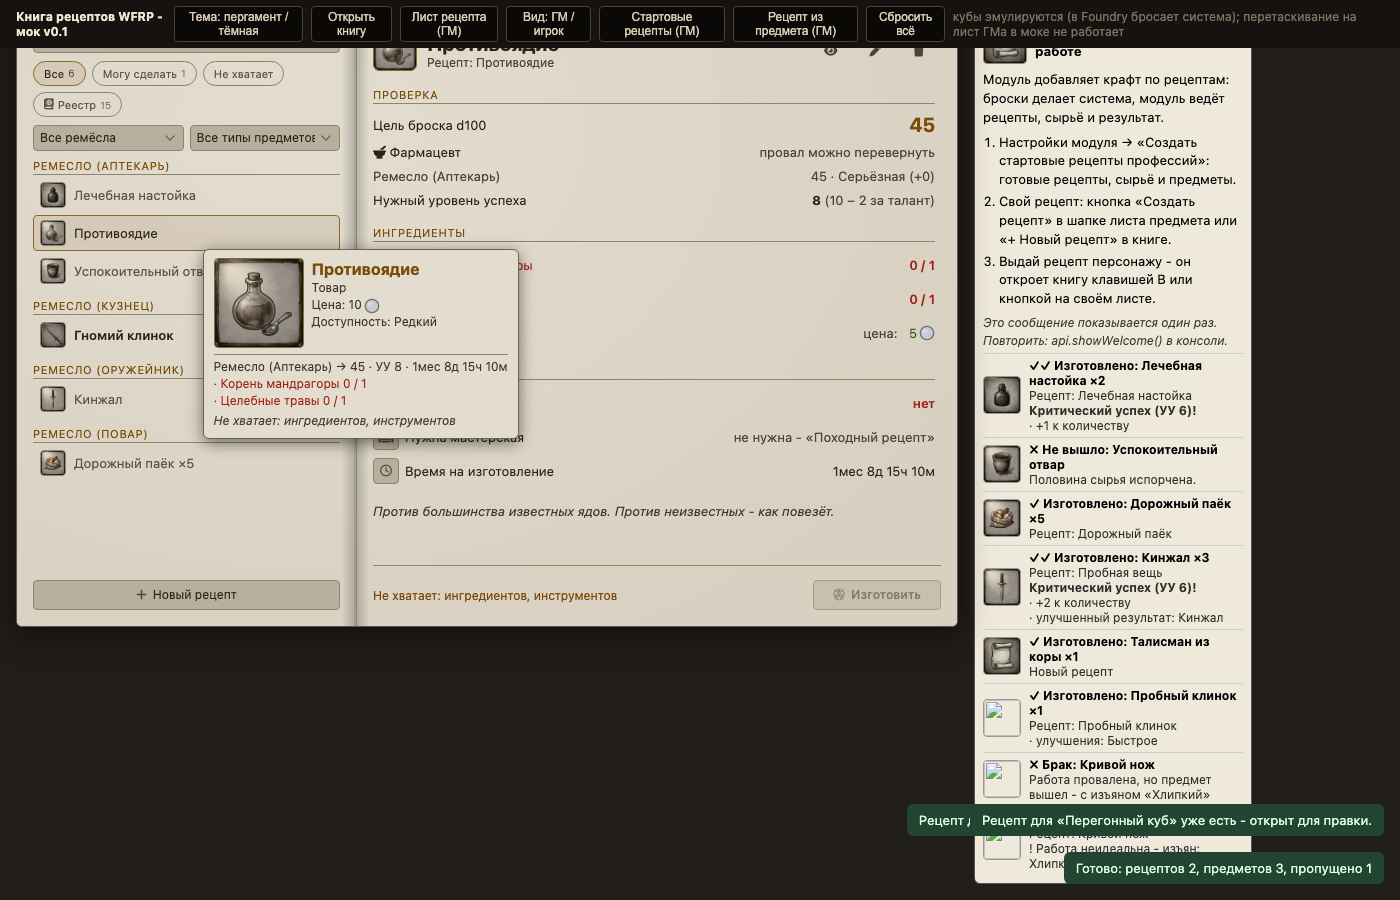
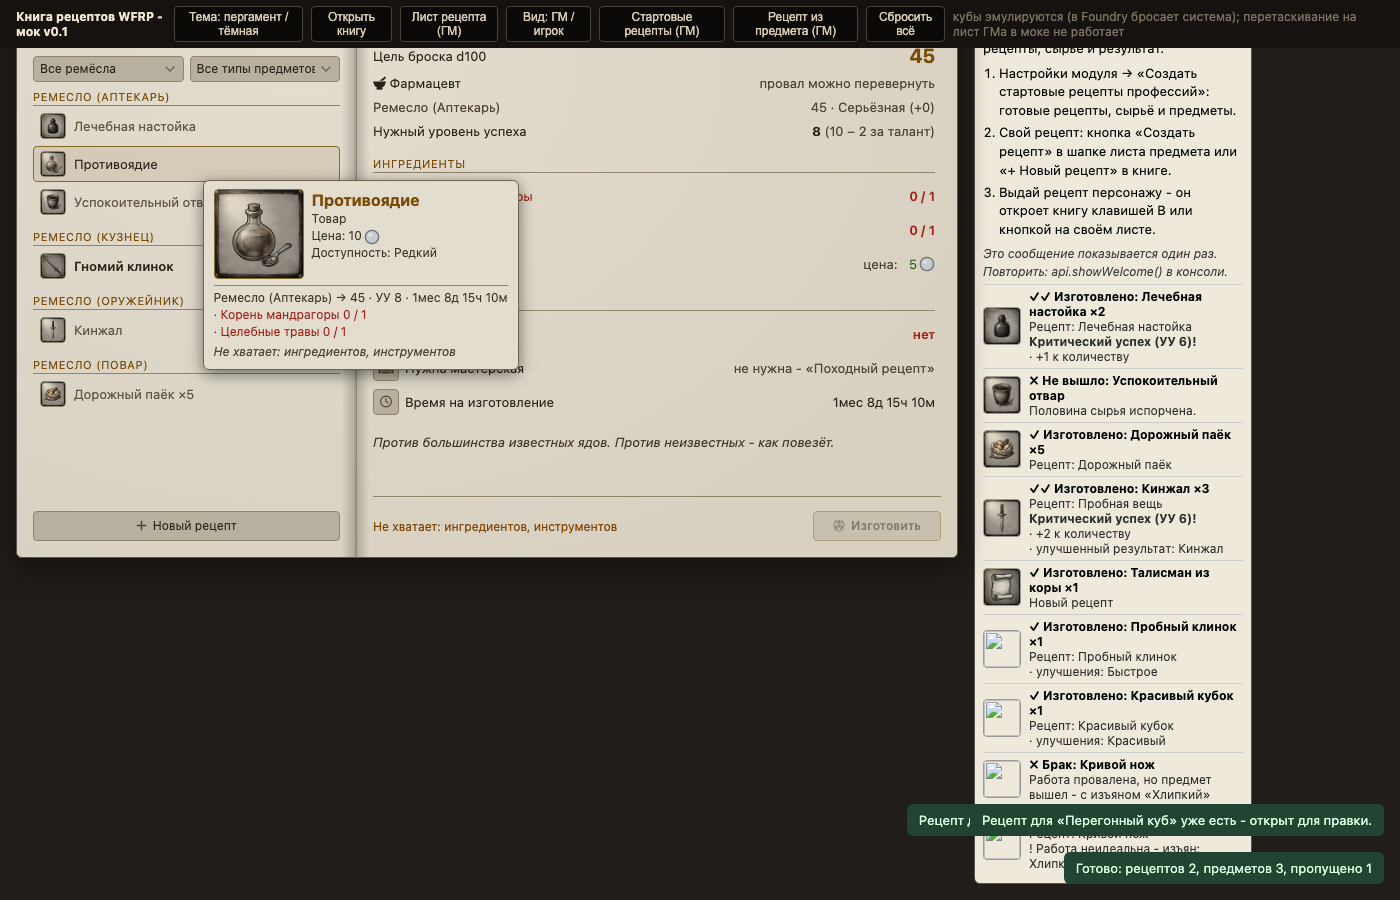
v0.1.36: уровни качества - каждый уровень считается отдельным достоинством

Changed region(s): [[0.0, 0.0311, 0.8907, 0.84], [0.5529, 0.0311, 0.6757, 0.3111]]

diff --git a/scripts/recipe-book.js b/scripts/recipe-book.js
@@ -294,12 +294,27 @@ export function isGMView() {
   return !!game.user.isGM && !game.settings.get(MODULE_ID, "playerView");
 }
 
+/** Качества с уровнями: каждый уровень считается ОТДЕЛЬНЫМ достоинством (стр. 291).
+    Остальные значения у свойств - параметры (многозарядное (4), перезарядка (5)), а не уровни. */
+export const MULTI_LEVEL = new Set(["durable", "fine"]);
+
+/** Выбор игрока: {качество: уровень}. Старый формат (массив ключей) читаем как уровень 1. */
+export function pickedLevels(picked) {
+  const out = new Map();
+  if (Array.isArray(picked)) for (const k of picked) out.set(k, 1);
+  else for (const [k, v] of Object.entries(picked ?? {})) if (Number(v) > 0) out.set(k, Number(v));
+  return out;
+}
+
 export function recipeStatus(actor, recipe, { picked = [], idx = null } = {}) {
   const sys = recipe.system ?? {};
   const inv = idx ?? actorIndex(actor);
-  // Выбранные улучшения добавляют своё сырьё, деньги и требуемый УУ
-  const ups = (sys.upgrades ?? []).filter((u) => picked.includes(u.quality));
-  const slBase = (Number(sys.slTarget) || 1) + ups.reduce((n, u) => n + (Number(u.slBonus) || 0), 0);
+  // Выбранные улучшения добавляют своё сырьё, деньги и требуемый УУ - всё это умножается на уровень
+  const lv = pickedLevels(picked);
+  const ups = (sys.upgrades ?? [])
+    .filter((u) => (lv.get(u.quality) ?? 0) > 0)
+    .map((u) => ({ ...u, level: Math.min(lv.get(u.quality), Math.max(1, Number(u.levels) || 1)) }));
+  const slBase = (Number(sys.slTarget) || 1) + ups.reduce((n, u) => n + (Number(u.slBonus) || 0) * u.level, 0);
   const skillItem = findSkill(actor, sys.skill, inv) ?? findSkill(actor, sys.skillAlt, inv);
   const skillUsed = skillItem ? skillItem.name : sys.skill;
   const skillTotal = skillItem ? Number(skillItem.system.total?.value) || 0 : 0;
@@ -311,9 +326,10 @@ export function recipeStatus(actor, recipe, { picked = [], idx = null } = {}) {
   const needed = [...(sys.ingredients ?? []).map((i) => ({ ...i }))];
   for (const u of ups) {
     for (const ing of u.ingredients ?? []) {
+      const count = (Number(ing.count) || 1) * u.level;
       const same = needed.find((n) => norm(n.name) === norm(ing.name));
-      if (same) same.count += ing.count;
-      else needed.push({ ...ing });
+      if (same) same.count += count;
+      else needed.push({ ...ing, count });
     }
   }
   const ingredients = needed.map((ing) => {
@@ -324,7 +340,7 @@ export function recipeStatus(actor, recipe, { picked = [], idx = null } = {}) {
     const { have } = stockOf(actor, t.name, inv);
     return { ...t, have, ok: have > 0 };
   });
-  const costBp = (sys.moneyBp || 0) + ups.reduce((n, u) => n + (Number(u.moneyBp) || 0), 0);
+  const costBp = (sys.moneyBp || 0) + ups.reduce((n, u) => n + (Number(u.moneyBp) || 0) * u.level, 0);
   const haveBp = moneyPennies(actor, inv);
   const moneyOk = haveBp >= costBp;
   const countMoney = game.settings.get(MODULE_ID, "highlightMoney");
@@ -413,7 +429,7 @@ export async function startCraft(actor, recipe, picked = []) {
         moneyBp: st.costBp,
         spent: spentLite,
         // Выбранные улучшения: качества добавятся предмету при успехе
-        upgrades: st.ups.map((u) => ({ quality: u.quality, name: u.name }))
+        upgrades: st.ups.map((u) => ({ quality: u.quality, name: u.name, level: u.level || 1 }))
       }
     }
   }]);
@@ -537,7 +553,8 @@ async function finishCraft(actor, test) {
   const obj = await resultObject(data, test.name, count);
   const ups = test.getFlag(MODULE_ID, "upgrades") ?? [];
   if (ups.length) {
-    pushProps(obj, "qualities", ups.map((u) => ({ name: u.quality, value: null })));
+    // Уровень пишем значением качества: «Красивый (3)» - это три достоинства по правилам
+    pushProps(obj, "qualities", ups.map((u) => ({ name: u.quality, value: (u.level || 1) > 1 ? u.level : null })));
     lines.push("· " + esc(F("WFRPRB.Chat.Upgraded", { list: ups.map((u) => u.name || propertyLabel(u.quality)).join(", ") })));
   }
   if (obj_critQualities) pushProps(obj, "qualities", obj_critQualities);
@@ -905,7 +922,7 @@ export class RecipeBookApp extends HandlebarsApplicationMixin(ApplicationV2) {
     this.filter = "all";
     this.search = "";
     this.selected = null; // {kind:"recipe"|"project", id}
-    this.picked = {};      // id рецепта -> массив выбранных улучшений (ключи качеств)
+    this.picked = {};      // id рецепта -> { ключ качества: выбранный уровень }
   }
 
   get title() {
@@ -1188,7 +1205,7 @@ export class RecipeBookApp extends HandlebarsApplicationMixin(ApplicationV2) {
           (this._seen ??= new Set()).add(r.id);
           r.unsetFlag(MODULE_ID, "isNew").catch(() => null);
         }
-        const picked = this.picked[r.id] ?? [];
+        const picked = this.picked[r.id] ?? {};
         const st = recipeStatus(statusActor, r, { picked, idx: idxFor(statusActor) });
         const res = r.system.result ?? {};
         const dd = Number(r.system.timeDays) || 0;
@@ -1207,18 +1224,26 @@ export class RecipeBookApp extends HandlebarsApplicationMixin(ApplicationV2) {
             tt: await this._itemTip(ing.name, ing.uuid, ing.img, statusActor)
           }))),
           moneyBp: st.costBp, moneyHtml: moneyHtml(st.costBp), moneyOk: st.moneyOk,
-          upgrades: (r.system.upgrades ?? []).map((u) => ({
+          upgrades: (r.system.upgrades ?? []).map((u) => {
+            const maxLevel = Math.max(1, Number(u.levels) || 1);
+            const level = Math.min(pickedLevels(picked).get(u.quality) ?? 0, maxLevel);
+            // Цена и сырьё показываются за выбранный уровень, а невыбранное - за один
+            const mul = level || 1;
+            return {
             quality: u.quality,
             name: u.name || propertyLabel(u.quality),
-            on: picked.includes(u.quality),
-            slBonus: u.slBonus,
+            on: level > 0,
+            level, maxLevel, multiLevel: maxLevel > 1,
+            slBonus: (Number(u.slBonus) || 0) * mul,
             costHtml: [
-              ...(u.ingredients ?? []).map((i) => `${esc(i.name)}${i.count > 1 ? ` ×${i.count}` : ""}`),
-              u.moneyBp ? moneyHtml(u.moneyBp) : ""
+              ...(u.ingredients ?? []).map((i) => `${esc(i.name)}${(i.count * mul) > 1 ? ` ×${i.count * mul}` : ""}`),
+              u.moneyBp ? moneyHtml(u.moneyBp * mul) : ""
             ].filter(Boolean).join(", "),
             // В подсказке - ЧТО ДАЁТ качество (цена и +УУ уже видны в самой строке)
-            tip: propertyTip(u.quality, u.name || propertyLabel(u.quality))
-          })),
+            tip: propertyTip(u.quality, u.name || propertyLabel(u.quality)) +
+              (maxLevel > 1 ? "\n" + F("WFRPRB.Upgrade.LevelTip", { max: maxLevel }) : "")
+            };
+          }),
           moneyTip: (() => {
             const cost = st.costBp;
             const left = st.haveBp - cost;
@@ -1315,6 +1340,12 @@ export class RecipeBookApp extends HandlebarsApplicationMixin(ApplicationV2) {
     RBTooltip.hide();
     RBTooltip.adoptTips();
     this._bindTooltips(root);
+    for (const el of root.querySelectorAll(".rb-upgrade-level")) {
+      el.addEventListener("change", (ev) => {
+        const t = ev.currentTarget;
+        this.setUpgradeLevel(t.dataset.quality, t.value, t.max);
+      });
+    }
     root.querySelector(".rb-skill-filter")?.addEventListener("change", (ev) => {
       this.skillFilter = ev.currentTarget.value;
       this.render();
@@ -1351,10 +1382,22 @@ export class RecipeBookApp extends HandlebarsApplicationMixin(ApplicationV2) {
     const id = this.selected?.id;
     if (!id) return;
     const key = target.dataset.quality;
-    const list = new Set(this.picked[id] ?? []);
-    if (list.has(key)) list.delete(key);
-    else list.add(key);
-    this.picked[id] = [...list];
+    const cur = { ...(this.picked[id] ?? {}) };
+    if (cur[key] > 0) delete cur[key];
+    else cur[key] = 1;
+    this.picked[id] = cur;
+    this.render();
+  }
+
+  /** Уровень улучшения: каждый уровень - отдельное достоинство (+5 УУ и своё сырьё) */
+  setUpgradeLevel(key, level, max) {
+    const id = this.selected?.id;
+    if (!id) return;
+    const cur = { ...(this.picked[id] ?? {}) };
+    const n = Math.max(0, Math.min(Number(level) || 0, Math.max(1, Number(max) || 1)));
+    if (n > 0) cur[key] = n;
+    else delete cur[key];
+    this.picked[id] = cur;
     this.render();
   }
 
@@ -1362,7 +1405,7 @@ export class RecipeBookApp extends HandlebarsApplicationMixin(ApplicationV2) {
     if (this.selected?.kind !== "recipe") return;
     const recipe = this.actor.items.get(this.selected.id);
     if (!recipe) return;
-    const test = await startCraft(this.actor, recipe, this.picked[recipe.id] ?? []);
+    const test = await startCraft(this.actor, recipe, this.picked[recipe.id] ?? {});
     // Если работа закончилась сразу, проекта уже нет - остаёмся на рецепте
     if (test?.id && this.actor.items.get(test.id)) this.selected = { kind: "project", id: test.id, recipeId: recipe.id };
     this.render();

diff --git a/scripts/item-forge.js b/scripts/item-forge.js
@@ -4,7 +4,7 @@
    за достоинства, крит-качества (И/ИЛИ) и правила брака. */
 
 import { MODULE_ID, difficultyLabel } from "./recipe-model.js";
-import { L, F, esc, openItemPicker, propertyLabel, propertyTip, coinIco, isDark, availLabel, RecipeBookApp } from "./recipe-book.js";
+import { L, F, esc, openItemPicker, propertyLabel, propertyTip, coinIco, isDark, availLabel, moneyHtml, COIN_VALUE, MULTI_LEVEL, RecipeBookApp } from "./recipe-book.js";
 import { AVAIL_TO_DIFF } from "./recipe-from-item.js";
 import { EFFECT_PRESETS, buildPotionEffects, donorEffects, effectSummary } from "./item-effects.js";
 
@@ -90,11 +90,18 @@ export class ItemForgeApp extends ForgeMixin(ForgeAppBase) {
     this.baseSL = Number(this.recipe.system.slTarget) || 1;
   }
 
+  /** Сколько достоинств даёт свойство: у «Прочного» и «Красивого» каждый уровень
+      считается отдельным достоинством (стр. 291), у остальных значение - параметр. */
+  static qualityWeight(key, state) {
+    return MULTI_LEVEL.has(key) ? Math.max(1, Number(state?.value) || 1) : 1;
+  }
+
   /** Требуемый УУ: изъяны половинят (каждый), затем +5 за достоинство.
       withUpgrades=false - без качеств, которые станут выбираемыми улучшениями. */
   computedSL({ withUpgrades = true } = {}) {
-    const qs = Object.values(this.forge.qualities).filter((x) => x.on);
-    const nq = withUpgrades ? qs.length : qs.filter((v) => !(v.extraName || Number(v.extraBp) > 0)).length;
+    const entries = Object.entries(this.forge.qualities).filter(([, x]) => x.on);
+    const counted = withUpgrades ? entries : entries.filter(([, v]) => !(v.extraName || Number(v.extraBp) > 0));
+    const nq = counted.reduce((n, [key, v]) => n + ItemForgeApp.qualityWeight(key, v), 0);
     const nf = Object.values(this.forge.flaws).filter((x) => x.on).length;
     let sl = this.baseSL;
     for (let i = 0; i < nf; i++) sl = sl / 2;
@@ -172,6 +179,23 @@ export class ItemForgeApp extends ForgeMixin(ForgeAppBase) {
       },
       baseSL: this.baseSL,
       prognosis: this.computedSL(),
+      // Правила качества предметов (стр. 291): каждое достоинство удваивает цену
+      // и снижает доступность на ступень, каждый изъян - наоборот
+      quality: (() => {
+        const nq = Object.entries(st.qualities).filter(([, x]) => x.on)
+          .reduce((n, [key, v]) => n + ItemForgeApp.qualityWeight(key, v), 0);
+        const nf = Object.values(st.flaws).filter((x) => x.on).length;
+        if (!nq && !nf) return null;
+        const bp = (Number(st.priceGc) || 0) * COIN_VALUE.gc + (Number(st.priceSs) || 0) * COIN_VALUE.ss + (Number(st.priceBp) || 0);
+        const shift = nq - nf;
+        const idx = Math.min(Math.max(AVAIL_KEYS.indexOf(st.avail) + shift, 0), AVAIL_KEYS.length - 1);
+        return {
+          nq, nf,
+          priceHtml: bp ? moneyHtml(Math.round(bp * Math.pow(2, shift))) : "",
+          avail: availLabel(AVAIL_KEYS[idx]),
+          same: shift === 0
+        };
+      })(),
       coinGc: coinIco("gc"), coinSs: coinIco("ss"), coinBp: coinIco("bp")
     };
   }
@@ -287,6 +311,8 @@ export class ItemForgeApp extends ForgeMixin(ForgeAppBase) {
       quality: key,
       name: propertyLabel(key),
       slBonus: 5,
+      // Уровень у «Прочного» и «Красивого» игрок выбирает сам, до заданного максимума
+      levels: MULTI_LEVEL.has(key) ? Math.max(1, Number(v.value) || 1) : 1,
       moneyBp: Number(v.extraBp) || 0,
       ingredients: v.extraName ? [{ uuid: v.extraUuid ?? "", name: v.extraName, img: v.extraImg ?? "", count: v.extraCount || 1 }] : []
     }));

diff --git a/scripts/recipe-model.js b/scripts/recipe-model.js
@@ -75,6 +75,8 @@ export function buildRecipeModel() {
         quality: new F.StringField({ initial: "" }),   // ключ качества системы
         name: new F.StringField({ initial: "" }),      // подпись для игрока
         slBonus: new F.NumberField({ initial: 5, min: 0, integer: true }),
+        // Сколько уровней качества игрок может взять (стр. 291: каждый уровень - отдельное достоинство)
+        levels: new F.NumberField({ initial: 1, min: 1, integer: true }),
         moneyBp: new F.NumberField({ initial: 0, min: 0, integer: true }),
         ingredients: new F.ArrayField(new F.SchemaField({
           uuid: new F.StringField({ initial: "" }),

diff --git a/CLAUDE.md b/CLAUDE.md
@@ -340,6 +340,23 @@ HandlebarsApplicationMixin).
   дописываются качествами на созданный предмет (pushProps), с отметкой в чат-карточке.
 - Базовый `slTarget` рецепта пишется БЕЗ улучшений (`computedSL({withUpgrades:false})`).
 
+### Уровни качества (стр. 291)
+
+«У предмета может быть несколько уровней прочности/красоты - каждый уровень считается
+ОТДЕЛЬНЫМ достоинством». Значит уровень 3 - это +15 к требуемому УУ, а не +5.
+
+- Уровни есть только у `durable` и `fine` - набор `MULTI_LEVEL` в `recipe-book.js`.
+  Остальные числа у свойств - ПАРАМЕТРЫ, а не уровни: «многозарядное (4)» - это 4 выстрела,
+  «перезарядка (5)» - 5 действий. Складывать их как достоинства нельзя.
+- В мастере значение такого качества = уровень: вшитое считается в прогноз по весу
+  (`ItemForgeApp.qualityWeight`), а улучшение получает `levels` - максимум, который игрок возьмёт.
+- Игрок выбирает уровень полем рядом с галкой; `app.picked[recipeId]` теперь
+  `{ключ качества: уровень}` (старый формат-массив читается как уровень 1 - `pickedLevels`).
+  На уровень умножаются +УУ, сырьё и деньги улучшения; на предмет качество пишется со значением.
+- Справка в футере мастера: каждое достоинство удваивает цену и снижает доступность
+  на ступень, каждый изъян наоборот (стр. 291). Поля цены и доступности при этом НЕ меняются -
+  это подсказка, а не автоподстановка.
+
 ## Стартовые рецепты (кнопка в настройках ГМа)
 
 - Каталог - `scripts/starter-data.js` (7 профессий: аптекарь, травник, повар, кузнец, плотник,
@@ -361,11 +378,10 @@ HandlebarsApplicationMixin).
 Сделано по дороге (из планов вычеркнуто): качественные предметы с достоинствами и изъянами,
 улучшения за доп. сырьё, крит и брак, реестр ГМа, фильтры, локализация ru/en, демо-набор,
 рецепт из предмета, применяемые зелья (вкладка «Эффект»), доступность в мастере,
-таланты аптекаря. v0.2 закрыта полностью.
+таланты аптекаря, уровни качества (улучшения v2). v0.2 закрыта полностью.
 
 - **v0.3:** «Изобретение!» (стр. 196: чертёж инженера + воплощение, сложность не ниже безумной,
   сырьё ×2 от суммы предметов); режим затей (бросок только по разрешению ГМа, кнопка «Новая затея»);
   звуки Web Audio как в paperdoll; хук-интеграция с paperdoll (книга вкладкой в окне снаряжения).
-- **Улучшения v2:** несколько уровней одного качества (Прочный 1/2/3) с выбором уровня игроком.
 - **Мелочи:** состояние загрузки пикера на больших мирах (itemIndex собирается заметное время);
   кнопка «выдать рецепт всем игрокам» (обратная к «удалить везде»).
